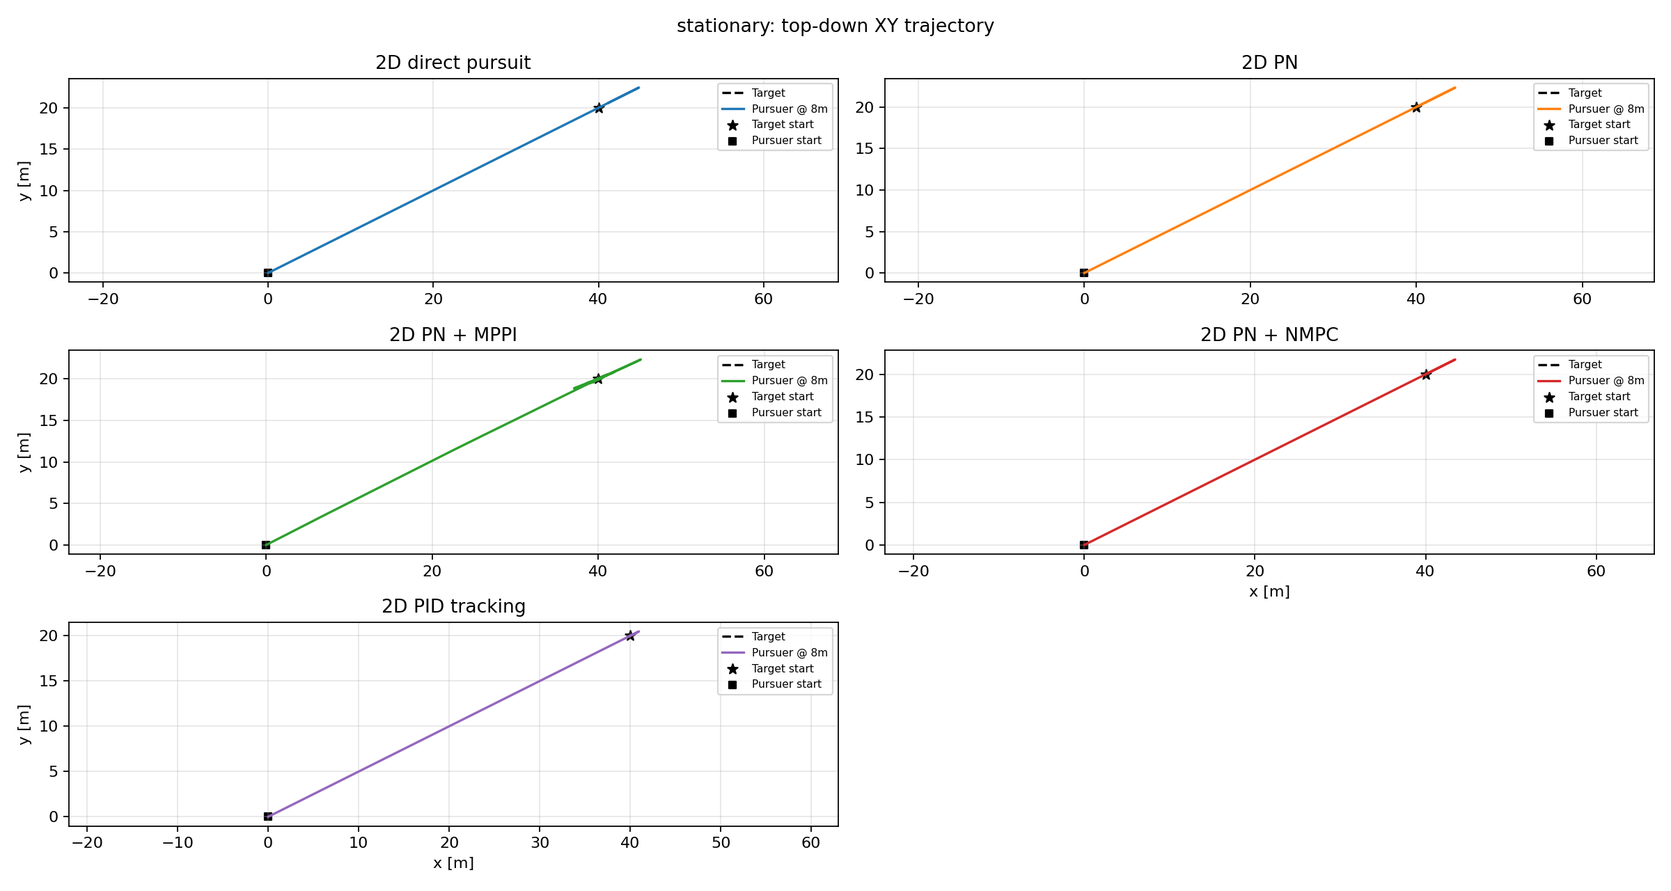
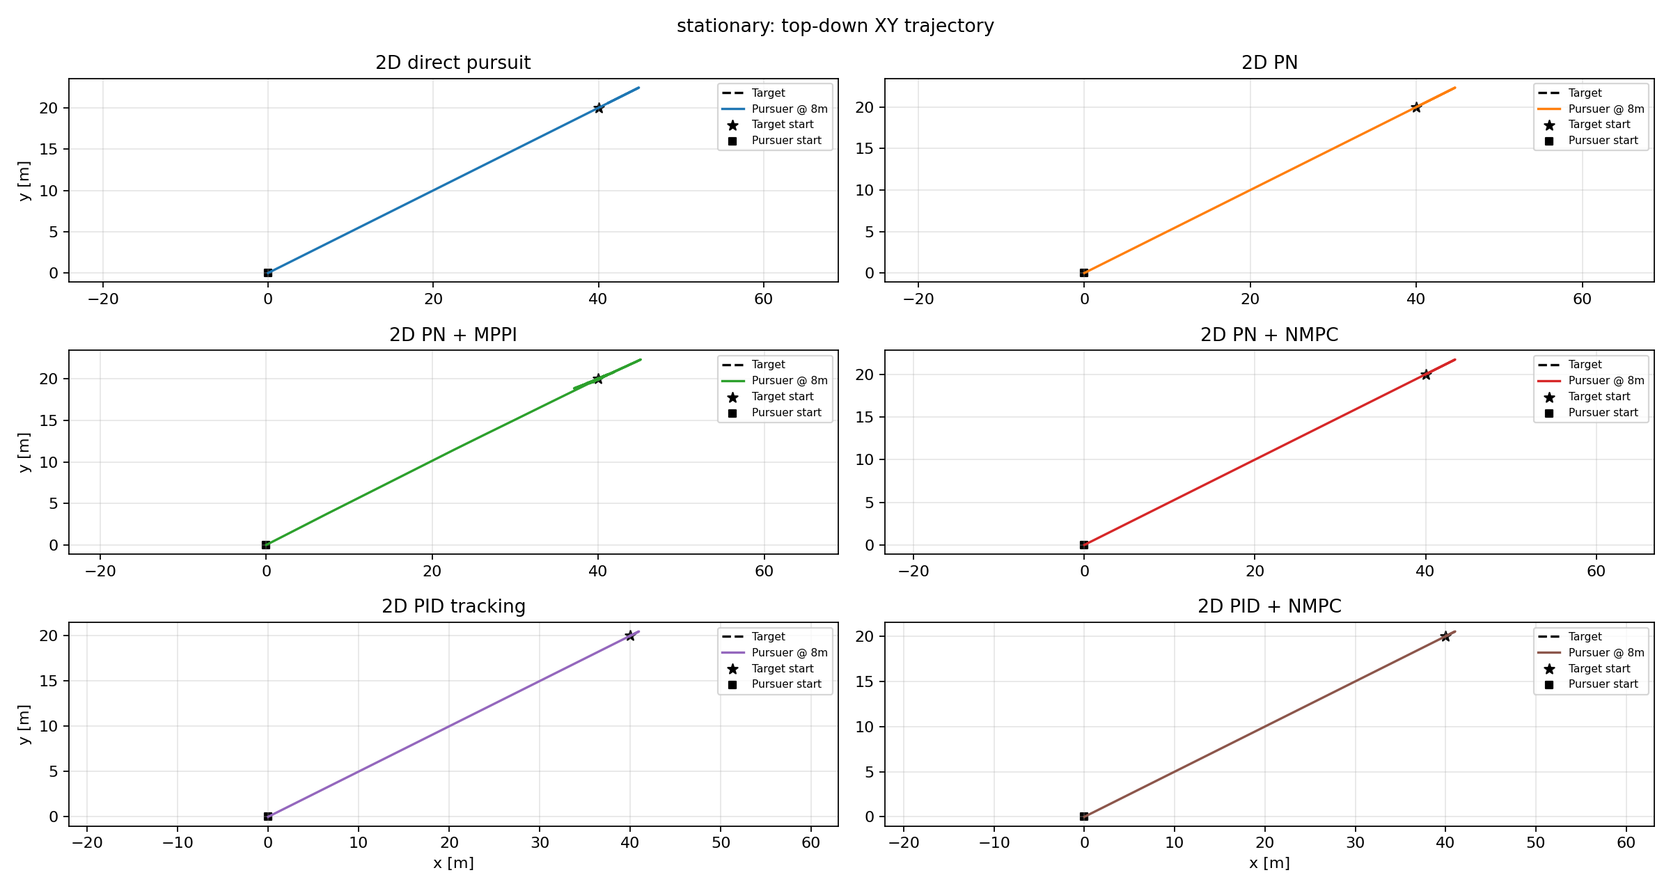
新增 7_2Dsimulation PID + EMPC 混合导引算法
- 新增 pid_nmpc：pid_guidance() 给出名义参考加速度，EMPC 围绕参考枚举候选并输出实际指令；nmpc_w_pn 此时惩罚偏离 PID 参考
- 登记算法/标签/launch 与配置注释，guidance_node 在视觉 hold 时同步清零 PID 积分
- 新增离线单测 tests/test_pid_nmpc.py 与 ROS hold 清零测试；同步 README、算法说明（6.6 节、权重与离线结果表）及离线插图

diff --git a/7_2Dsimulation/tests/test_pid_nmpc.py b/7_2Dsimulation/tests/test_pid_nmpc.py
@@ -1,0 +1,114 @@
+"""PID + EMPC 混合导引的离线单元测试。
+
+覆盖 `guidance.py` 中 `pid_nmpc` 的接线：PID 每个控制周期只累积一次积分、
+`nmpc_w_pn` 作为“偏离 PID 参考”权重（权重极大时退化为纯 PID）、
+调度限幅以及静止场景的端到端捕获冒烟测试。
+
+运行：
+
+```bash
+cd 7_2Dsimulation
+uv run python tests/test_pid_nmpc.py
+```
+"""
+
+from __future__ import annotations
+
+import sys
+import unittest
+from pathlib import Path
+
+import numpy as np
+
+ROOT = Path(__file__).resolve().parents[1]
+SRC = ROOT / "src"
+if str(SRC) not in sys.path:
+    sys.path.insert(0, str(SRC))
+
+from pythonsimulation2d.config import SimulationConfig  # noqa: E402
+from pythonsimulation2d.guidance import GuidanceMemory, compute_guidance, pid_guidance  # noqa: E402
+from pythonsimulation2d.math_utils import norm_xy  # noqa: E402
+from pythonsimulation2d.simulation import run_algorithm  # noqa: E402
+from pythonsimulation2d.state import PursuerState, TargetState  # noqa: E402
+
+
+def make_pursuer(
+    position: tuple[float, float] = (0.0, 0.0),
+    velocity: tuple[float, float] = (0.0, 0.0),
+) -> PursuerState:
+    return PursuerState(
+        position=np.array([position[0], position[1], 8.0]),
+        velocity=np.array([velocity[0], velocity[1], 0.0]),
+        acceleration=np.zeros(3),
+        yaw=0.0,
+    )
+
+
+def make_target(
+    position: tuple[float, float] = (0.0, 0.0),
+    velocity: tuple[float, float] = (0.0, 0.0),
+) -> TargetState:
+    return TargetState(
+        position=np.array([position[0], position[1], 1.0]),
+        velocity=np.array([velocity[0], velocity[1], 0.0]),
+        acceleration=np.zeros(3),
+    )
+
+
+class PidNmpcWiringTest(unittest.TestCase):
+    """PID 参考与 EMPC 候选选择的接线。"""
+
+    def test_dispatch_clamps_to_acceleration_limit_and_looks_at_target(self) -> None:
+        config = SimulationConfig()
+        pursuer = make_pursuer()
+        target = make_target(position=(500.0, 0.0))
+        guidance = compute_guidance("pid_nmpc", pursuer, target, GuidanceMemory(), config, config.dt)
+        self.assertAlmostEqual(norm_xy(guidance.acceleration), config.pursuer.a_max, places=9)
+        np.testing.assert_allclose(guidance.look_at_position, target.position, atol=0.0)
+
+    def test_integral_updates_once_per_control_cycle(self) -> None:
+        # pid_nmpc 内部只调用一次 pid_guidance；若重复调用，积分会翻倍。
+        config = SimulationConfig()
+        config.guidance.pid_kp = 0.0
+        config.guidance.pid_ki = 1.0
+        config.guidance.pid_kd = 0.0
+        memory = GuidanceMemory()
+        compute_guidance("pid_nmpc", make_pursuer(), make_target(position=(10.0, 0.0)), memory, config, dt=0.05)
+        np.testing.assert_allclose(memory.pid_integral, np.array([0.5, 0.0, 0.0]), atol=1e-12)
+
+    def test_large_reference_weight_degenerates_to_pid(self) -> None:
+        # nmpc_w_pn 极大时，任何偏离 PID 参考的候选代价都被放大，最优候选就是参考本身。
+        config = SimulationConfig()
+        config.guidance.nmpc_w_pn = 1e9
+        config.guidance.nmpc_w_fov = 0.0
+        pursuer = make_pursuer(velocity=(0.5, 0.0))
+        target = make_target(position=(8.0, -3.0), velocity=(1.0, 0.0))
+
+        pid_memory = GuidanceMemory()
+        pid_reference = pid_guidance(pursuer, target, pid_memory, config, config.dt)
+        hybrid = compute_guidance("pid_nmpc", pursuer, target, GuidanceMemory(), config, config.dt)
+        np.testing.assert_allclose(hybrid.acceleration, pid_reference, atol=1e-9)
+
+    def test_small_reference_weight_allows_empc_correction(self) -> None:
+        # 参考权重为 0 时 EMPC 可以选择与 PID 参考不同的候选（横向快速穿越目标）。
+        config = SimulationConfig()
+        config.guidance.nmpc_w_pn = 0.0
+        config.guidance.nmpc_w_fov = 0.0
+        pursuer = make_pursuer()
+        target = make_target(position=(3.0, 0.0), velocity=(0.0, 5.0))
+        pid_reference = pid_guidance(pursuer, target, GuidanceMemory(), config, config.dt)
+        hybrid = compute_guidance("pid_nmpc", pursuer, target, GuidanceMemory(), config, config.dt)
+        self.assertGreater(norm_xy(hybrid.acceleration - pid_reference), 1e-6)
+
+
+class PidNmpcSimulationSmokeTest(unittest.TestCase):
+    """端到端：默认参数下混合算法能在静止场景完成捕获。"""
+
+    def test_captures_stationary_target(self) -> None:
+        config = SimulationConfig(sim_time=20.0)
+        result = run_algorithm("stationary", "pid_nmpc", config)
+        self.assertLess(float(np.min(result.distance)), config.capture_radius)
+
+
+if __name__ == "__main__":
+    unittest.main()

diff --git a/7_2Dsimulation/src/pythonsimulation2d/guidance.py b/7_2Dsimulation/src/pythonsimulation2d/guidance.py
@@ -117,6 +117,12 @@ def compute_guidance(
     elif algorithm == "pn_nmpc":
         pn_trend = pn_guidance(pursuer, target, config)
         acceleration = nmpc_acceleration(pursuer, target, pn_trend, memory, config)
+    elif algorithm == "pid_nmpc":
+        # PID 名义参考 + EMPC 实际指令：PID 每个控制周期只调用一次（积分只累积一次），
+        # 其输出作为候选集合与 nmpc_w_pn 代价项的名义趋势；权重越大结果越接近纯 PID，
+        # 权重变小时 EMPC 才能用预测代价和 FOV 惩罚修正 PID 参考。
+        pid_trend = pid_guidance(pursuer, target, memory, config, dt)
+        acceleration = nmpc_acceleration(pursuer, target, pid_trend, memory, config)
     elif algorithm == "pn_mppi":
         pn_trend = pn_guidance(pursuer, target, config)
         acceleration = mppi_acceleration(pursuer, target, pn_trend, memory, config)
@@ -129,15 +135,16 @@ def compute_guidance(
 def nmpc_acceleration(
     pursuer: PursuerState,
     target_reference: TargetState,
-    pn_trend: np.ndarray,
+    reference_trend: np.ndarray,
     memory: GuidanceMemory,
     config: SimulationConfig,
 ) -> np.ndarray:
-    candidates = _candidate_accelerations(pursuer, target_reference, pn_trend, config)
+    """围绕名义参考趋势（PN 或 PID）枚举候选加速度，返回代价最低者。"""
+    candidates = _candidate_accelerations(pursuer, target_reference, reference_trend, config)
     best_cost = float("inf")
-    best_acceleration = pn_trend
+    best_acceleration = reference_trend
     for acceleration in candidates:
-        cost = _rollout_cost(pursuer, target_reference, acceleration, pn_trend, memory, config)
+        cost = _rollout_cost(pursuer, target_reference, acceleration, reference_trend, memory, config)
         if cost < best_cost:
             best_cost = cost
             best_acceleration = acceleration
@@ -246,7 +253,7 @@ def _clamp_rows_xy(vectors: np.ndarray, max_norm: float) -> np.ndarray:
 def _candidate_accelerations(
     pursuer: PursuerState,
     target: TargetState,
-    pn_trend: np.ndarray,
+    reference_trend: np.ndarray,
     config: SimulationConfig,
 ) -> list[np.ndarray]:
     guidance = config.guidance
@@ -275,22 +282,22 @@ def _candidate_accelerations(
         lateral = np.array([0.0, 1.0, 0.0])
 
     raw_candidates = [
-        pn_trend,
-        0.55 * pn_trend,
-        1.25 * pn_trend,
-        0.75 * pn_trend + 0.25 * intercept,
-        0.5 * pn_trend + 0.5 * intercept,
+        reference_trend,
+        0.55 * reference_trend,
+        1.25 * reference_trend,
+        0.75 * reference_trend + 0.25 * intercept,
+        0.5 * reference_trend + 0.5 * intercept,
         same_speed,
-        0.5 * pn_trend + 0.5 * same_speed,
+        0.5 * reference_trend + 0.5 * same_speed,
         velocity_match,
-        0.5 * pn_trend + 0.5 * velocity_match,
+        0.5 * reference_trend + 0.5 * velocity_match,
         stable_tracking,
         soft_tracking,
         velocity_tracking,
-        0.5 * pn_trend + 0.5 * stable_tracking,
-        0.35 * pn_trend + 0.65 * soft_tracking,
-        pn_trend + 0.35 * a_max * lateral,
-        pn_trend - 0.35 * a_max * lateral,
+        0.5 * reference_trend + 0.5 * stable_tracking,
+        0.35 * reference_trend + 0.65 * soft_tracking,
+        reference_trend + 0.35 * a_max * lateral,
+        reference_trend - 0.35 * a_max * lateral,
     ]
     return [clamp_norm_xy(candidate, a_max) for candidate in raw_candidates]
 
@@ -379,7 +386,7 @@ def _rollout_cost(
     pursuer: PursuerState,
     target: TargetState,
     acceleration: np.ndarray,
-    pn_trend: np.ndarray,
+    reference_trend: np.ndarray,
     memory: GuidanceMemory,
     config: SimulationConfig,
 ) -> float:
@@ -404,7 +411,7 @@ def _rollout_cost(
         path_cost += distance
         control_cost += norm_xy(acceleration) ** 2 * guidance.mpc_dt
         smooth_cost += norm_xy(acceleration - previous_acceleration) ** 2
-        pn_cost += norm_xy(acceleration - pn_trend) ** 2
+        pn_cost += norm_xy(acceleration - reference_trend) ** 2
         velocity_cost += norm_xy(relative_velocity) ** 2 * guidance.mpc_dt
         if guidance.nmpc_w_fov > 0.0:
             fov_cost += _fov_penalty(state.position, state.yaw, predicted_position, guidance)

diff --git a/7_2Dsimulation/src/pythonsimulation2d/config.py b/7_2Dsimulation/src/pythonsimulation2d/config.py
@@ -8,7 +8,8 @@ import numpy as np
 # 这里集中定义合法场景和算法名称，CLI、仿真循环、绘图和指标输出都复用它们。
 # “定高俯瞰”的 2D 追踪仿真：状态数组仍保存 [x, y, z]，但控制律只使用 XY。
 SCENARIOS = ("stationary", "linear", "circle", "table_occlusion")
-ALGORITHMS = ("basic", "pn", "pn_mppi", "pn_nmpc", "pid")
+# 新增算法一律追加在末尾：绘图按索引取色，插在中间会改变已有算法的配色。
+ALGORITHMS = ("basic", "pn", "pn_mppi", "pn_nmpc", "pid", "pid_nmpc")
 
 ALGORITHM_LABELS = {
     "basic": "2D direct pursuit",
@@ -16,6 +17,7 @@ ALGORITHM_LABELS = {
     "pn_mppi": "2D PN + MPPI",
     "pn_nmpc": "2D PN + NMPC",
     "pid": "2D PID tracking",
+    "pid_nmpc": "2D PID + NMPC",
 }
 
 # 论文插图的面板标题：比 ALGORITHM_LABELS 更短，和正文表格里的叫法一致。
@@ -26,6 +28,7 @@ ALGORITHM_PANEL_LABELS = {
     "pn_mppi": "PN-guided MPPI",
     "pn_nmpc": "PN-guided E-MPC",
     "pid": "PID tracking",
+    "pid_nmpc": "PID-guided E-MPC",
 }
 
 
@@ -98,8 +101,9 @@ class GuidanceConfig:
     nmpc_w_path: float = 0.5
     nmpc_w_control: float = 0.015
     nmpc_w_smooth: float = 0.08
-    # 偏离 PN 趋势的惩罚：真实闭环下内部模型不可靠，权重提高让 NMPC 在拿不准时
-    # 跟随已被验证的 2D PN 趋势（候选集合里仍保留 pn_trend），避免自选动作持续失效。
+    # 偏离名义参考趋势的惩罚：真实闭环下内部模型不可靠，权重提高让 NMPC 在拿不准时
+    # 跟随已被验证的名义趋势（候选集合里仍保留 trend 本身），避免自选动作持续失效。
+    # `pn_nmpc` 的趋势是 2D PN；`pid_nmpc` 的趋势是单环 PID，此时该项惩罚“偏离 PID 参考”。
     nmpc_w_pn: float = 1.0
     # EMPC 画面保持（FOV）惩罚：把预测目标投影到固定下视相机的图像平面，
     # 归一化偏移（±1 为画面边缘）超过软边界后按平方惩罚，让目标贴近边缘时主动回中。

diff --git a/7_2Dsimulation/src/gazebosimulation2d/gazebosimulation2d/guidance_node.py b/7_2Dsimulation/src/gazebosimulation2d/gazebosimulation2d/guidance_node.py
@@ -88,7 +88,8 @@ from gazebosimulation2d.sim_clock import SimClockGuard, create_sim_clock_guard_t
 # 视觉量测的 z 固定为目标平面高度；只估计 XY。
 VISION_UNKNOWN = math.nan
 
-# PID 参数默认值与离线 config.py 共用同一份 GuidanceConfig，避免 launch/YAML 与代码漂移。
+# PID 参数默认值与离线 config.py 共用同一份 GuidanceConfig，避免 launch/YAML 与代码漂移；
+# `pid` 与 `pid_nmpc` 共用这组参数（pid_nmpc 的 PID 输出是 EMPC 的名义参考）。
 _PID_DEFAULTS = GuidanceConfig()
 
 
@@ -611,8 +612,9 @@ class GuidanceNode(Node):
         *, target_reference: TargetState | None = None,
     ) -> None:
         """丢失/未初始化时的悬停：零速零加速度 setpoint，保持当前 yaw。"""
-        if self._algorithm == "pid":
-            # 丢失期间不保留旧误差积分，避免重新检测后旧积分推动追踪机偏离目标。
+        if self._algorithm in ("pid", "pid_nmpc"):
+            # 丢失期间不保留旧误差积分，避免重新检测后旧积分推动追踪机偏离目标；
+            # pid_nmpc 的积分同样通过 PID 名义参考影响 EMPC。
             self._memory.pid_integral.fill(0.0)
         self._record_sample(elapsed, np.zeros(3), snapshot)
         self._publish_target_setpoint(

diff --git a/7_2Dsimulation/src/gazebosimulation2d/launch/guidance.launch.py b/7_2Dsimulation/src/gazebosimulation2d/launch/guidance.launch.py
@@ -43,7 +43,8 @@ def generate_launch_description() -> LaunchDescription:
         DeclareLaunchArgument("pursuer_fixed_altitude", default_value="8.0"),
         DeclareLaunchArgument("target_base_altitude", default_value="1.0"),
         DeclareLaunchArgument("target_speed_scale", default_value="1.0"),
-        # PID 参数：默认值与 pythonsimulation2d 的离线 GuidanceConfig 一致，闭环调参时覆盖。
+        # PID 参数：默认值与 pythonsimulation2d 的离线 GuidanceConfig 一致，闭环调参时覆盖；
+        # algorithm:=pid 时直接输出 PID，algorithm:=pid_nmpc 时作为 EMPC 的名义参考。
         DeclareLaunchArgument("pid_kp", default_value="2.5"),
         DeclareLaunchArgument("pid_ki", default_value="0.1"),
         DeclareLaunchArgument("pid_kd", default_value="2.6"),

diff --git a/7_2Dsimulation/src/gazebosimulation2d/test/test_guidance_vision.py b/7_2Dsimulation/src/gazebosimulation2d/test/test_guidance_vision.py
@@ -506,6 +506,17 @@ class TestPidLifecycle:
         finally:
             node.destroy_node()
 
+    def test_hold_clears_integral_for_pid_nmpc(self) -> None:
+        # pid_nmpc 的 PID 积分通过名义参考进入 EMPC，丢失悬停时同样要清零。
+        node = make_node(algorithm="pid_nmpc")
+        try:
+            set_vehicle_states(node)
+            node._memory.pid_integral[:] = [1.0, -2.0, 0.0]
+            node._run_hold_cycle(timestamp=123, elapsed=2.0, snapshot=_VisionSnapshot())
+            np.testing.assert_array_equal(node._memory.pid_integral, np.zeros(3))
+        finally:
+            node.destroy_node()
+
 
 class TestRecording:
     @pytest.mark.parametrize("algorithm", ["pn", "pid"])

diff --git a/7_2Dsimulation/README.md b/7_2Dsimulation/README.md
@@ -12,7 +12,7 @@
 - `tools/vision_offline_eval.py`：YOLO 数据集离线评估（Recall、像素误差）。
 - `tools/prelabel_yolo_images.py`：合并相机截图，用已有权重生成供人工修正的 YOLO 预标注。
 - `tools/vision_live_view.py`：实时查看相机画面与检测框（发布标注图供 rqt_image_view）。
-- `tests/`：纯 Python 相机几何、目标估计器、EMPC 画面保持（FOV）惩罚与 PID 导引测试。
+- `tests/`：纯 Python 相机几何、目标估计器、EMPC 画面保持（FOV）惩罚、PID 导引与 PID + EMPC 混合测试。
 - `worlds/default.sdf`：视觉实验用无阴影 Gazebo 世界。
 - `worlds/table_occlusion.sdf`：桌下遮挡世界，配合 `scenario:=table_occlusion`。
 - `outputs/`：默认仿真输出目录（生成物不入库）。
@@ -103,6 +103,9 @@ ros2 launch gazebosimulation2d guidance.launch.py algorithm:=pn_mppi scenario:=c
 
 # PID：默认使用目标 odometry，复用离线 PID 算法与现有速度 + 加速度 setpoint 链路
 ros2 launch gazebosimulation2d guidance.launch.py algorithm:=pid scenario:=circle
+
+# PID + EMPC：PID 给出名义参考加速度，EMPC 枚举候选并输出实际加速度；PID 参数与 pid 共用
+ros2 launch gazebosimulation2d guidance.launch.py algorithm:=pid_nmpc scenario:=circle
 ```
 
 常用参数示例：
@@ -161,9 +164,9 @@ param save                # 可选，参数变更后 PX4 会自动保存
 - 导引、记录距离和指标均按 XY 平面计算；追踪阶段 z 速度和 z 加速度指令为 0。
 - `pursuer_fixed_altitude` 默认 8m，用于 2D 仿真配置和结果标注；当前追踪阶段不再通过 position setpoint 强制拉高度。
 - `target_speed_scale`（默认 1.0）只缩放目标机参考轨迹的速度：`circle` 缩放角速度（半径不变）、`linear` 缩放速度矢量、`table_occlusion` 缩放巡航速度（默认 0.5 m/s）、`stationary` 不受影响；起止点与控制算法参数不变。
-- PID 参数（`algorithm:=pid` 时生效）通过 launch 覆盖：`pid_kp`（默认 2.5）、`pid_ki`（0.1）、`pid_kd`（2.6）、`pid_integral_limit`（3.0 m·s，积分向量范数上限）；不传时与 `src/pythonsimulation2d/config.py` 的离线默认值一致，参数为负会在启动时报错。
+- PID 参数（`algorithm:=pid` 或 `pid_nmpc` 时生效）通过 launch 覆盖：`pid_kp`（默认 2.5）、`pid_ki`（0.1）、`pid_kd`（2.6）、`pid_integral_limit`（3.0 m·s，积分向量范数上限）；不传时与 `src/pythonsimulation2d/config.py` 的离线默认值一致，参数为负会在启动时报错。
 
-PID 在 odometry 与视觉模式下均调用 `compute_guidance("pid", ...)`，不另设一套 ROS 控制算法；仅控制 XY，D 项使用目标与追踪机的相对速度。参数必须为有限非负数，launch 将其显式解析为浮点数（例如 `pid_ki:=0` 可关闭 I 项）。
+PID 在 odometry 与视觉模式下均调用 `compute_guidance("pid", ...)`，不另设一套 ROS 控制算法；仅控制 XY，D 项使用目标与追踪机的相对速度。参数必须为有限非负数，launch 将其显式解析为浮点数（例如 `pid_ki:=0` 可关闭 I 项）。`pid_nmpc` 复用同一组参数与积分语义，只把 PID 输出作为 EMPC 的名义参考，见下文算法说明。
 
 | PID launch 参数 | 默认值 | 说明 |
 | --- | ---: | --- |
@@ -201,7 +204,7 @@ ros2 launch gazebosimulation2d guidance.launch.py debug_log:=true debug_log_peri
 
 默认 `enable_camera:=false`、`vision_source:=off`、`target_source:=odometry`，启动方式与接入视觉前一致。导引节点在 `target_source:=vision` 时只消费 `/vision/target_pose`：漏检 → coast（α-β 预测），超时 → hold（悬停），不允许静默回退 odometry。
 
-`algorithm:=pid` 复用上述视觉链路：P/I 项使用滤波并外推到当前时刻的 XY 位置，D 项使用滤波目标速度减去追踪机 odometry 速度。短时漏检预测期间继续积分并按范数限幅；进入 hold 时清零积分，悬停期间不累积；重新收到有效量测后自动恢复跟踪，从零重新积分。追踪阶段开始时也会清零积分。
+`algorithm:=pid` 复用上述视觉链路：P/I 项使用滤波并外推到当前时刻的 XY 位置，D 项使用滤波目标速度减去追踪机 odometry 速度。短时漏检预测期间继续积分并按范数限幅；进入 hold 时清零积分，悬停期间不累积；重新收到有效量测后自动恢复跟踪，从零重新积分。追踪阶段开始时也会清零积分。`algorithm:=pid_nmpc` 的 PID 积分与丢失语义相同。
 
 依赖（由使用者准备）：
 
@@ -273,7 +276,7 @@ ros2 launch gazebosimulation2d guidance.launch.py \
   record_output_dir:=outputs/gazebo2d_vision_runs
 ```
 
-PID YOLO 闭环使用上面的同一条命令，把 `algorithm:=pn` 替换为 `algorithm:=pid` 即可；PID 参数不传时保持现有默认值。`truth` 几何旁路同样支持 `algorithm:=pid target_source:=vision`。
+PID YOLO 闭环使用上面的同一条命令，把 `algorithm:=pn` 替换为 `algorithm:=pid` 即可；PID 参数不传时保持现有默认值。`truth` 几何旁路同样支持 `algorithm:=pid target_source:=vision`。PID + EMPC 混合把 `algorithm` 换成 `pid_nmpc` 即可，PID 参数含义不变。
 
 `use_sim_time:=true` 是视觉闭环的硬性要求：图像 stamp、位姿缓存和量测时间都以 `/clock`（Gazebo 仿真时间）为基准；检测/适配/导引三个节点都挂了墙钟防呆，2 s 内收不到 `/clock` 会打印 FATAL 并退出，而不是静默不动作。先启动 Gazebo 再启动 launch。
 
@@ -488,6 +491,7 @@ uv run python tests/test_camera_geometry.py
 uv run python tests/test_target_filter.py
 uv run python tests/test_fov_penalty.py
 uv run python tests/test_pid_guidance.py
+uv run python tests/test_pid_nmpc.py
 ```
 
 ROS 节点测试（假 worker，不需要 torch/GPU）：
@@ -501,7 +505,7 @@ colcon test --packages-select gazebosimulation2d && colcon test-result --verbose
 算法：
 
 ```text
-basic, pn, pn_mppi, pn_nmpc, pid
+basic, pn, pn_mppi, pn_nmpc, pid, pid_nmpc
 ```
 
 场景：
@@ -514,11 +518,13 @@ stationary, linear, circle, table_occlusion
 
 `pid` 是单环位置 PID 对照：对 XY 位置误差做比例-积分-微分（D 项取相对速度误差），直接输出加速度，积分按范数限幅抗饱和；参数 `pid_kp`、`pid_ki`、`pid_kd`、`pid_integral_limit` 在三种离线场景上网格整定，原理、整定方法与离线对比结果见 [算法说明](docs/2d_simulation_guidance_overview.md) 6.5 和 10 节。Gazebo odometry 与 YOLO 视觉控制已接入，本次验收为单元测试及包构建，不包含实际 Gazebo/YOLO 闭环飞行复测或重新调参。
 
+`pid_nmpc` 是 PID + EMPC 混合：每个控制周期先由 `pid_guidance()` 计算名义参考加速度（积分只累积一次），EMPC 再围绕它枚举候选并输出实际加速度；代价中的 `nmpc_w_pn` 此时表示“偏离 PID 参考”的惩罚，权重越大越接近纯 PID，权重变小时预测代价和画面保持（FOV）惩罚才能修正参考。PID 参数与 `pid` 共用，视觉 coast/hold 积分语义一致。原理见 [算法说明](docs/2d_simulation_guidance_overview.md) 6.6 节，离线结果见 10 节。
+
 ## 桌下遮挡与重新找回目标
 
 `table_occlusion` 使用不透明的 2 × 2 m 桌面（厚 0.15 m、下表面离地 2.5 m）与四条带碰撞体的桌腿。桌子中心是世界 ENU `(6, 0)`，目标机在 1 m 高度从 `(0, 0)` 沿 +X 飞至 `(12, 0)`。巡航速度默认 **0.5 m/s**，以 0.5 m/s² 的梯形速度参考起步、减速并停在桌子中心。参考到达后，目标实际位置误差 ≤ 0.15 m 且实际速度 ≤ 0.10 m/s 时开始计时，连续停稳 **3 秒仿真时间**后再继续前进；期间不稳定就重新计时。终点保持悬停。理想轨迹约 29 秒，默认记录 40 秒，留出停稳和出桌恢复的观察时间。
 
-实验先使用 `pn_nmpc`（EMPC）。真实图像遮挡使 YOLO 漏检，追踪机沿用现有 `tracking → coast → lost/hold`；出桌后接受到视觉量测即恢复导引，不增加主动搜索或重获成功阈值。`truth` 旁路不消费图像、不处理桌子遮挡，不能用于此实验。纯 Python 的同名场景仅复用目标参考轨迹，不模拟真实桌面遮挡或实际停稳等待。
+实验先使用 `pn_nmpc`（EMPC）。真实图像遮挡使 YOLO 漏检，追踪机沿用现有 `tracking → coast → lost/hold`；出桌后接受到视觉量测即恢复导引，不增加主动搜索或重获成功阈值。`truth` 旁路不消费图像、不处理桌子遮挡，不能用于此实验。纯 Python 的同名场景仅复用目标参考轨迹，不模拟真实桌面遮挡或实际停稳等待。也可以把 `algorithm` 换成 `pid_nmpc`，用 PID 名义参考观察 EMPC 在遮挡恢复段的实际指令。
 
 按前面的五个外部终端准备环境，做以下调整（Gazebo 世界名仍为 `default`，相机桥接话题无需更改）：
 
